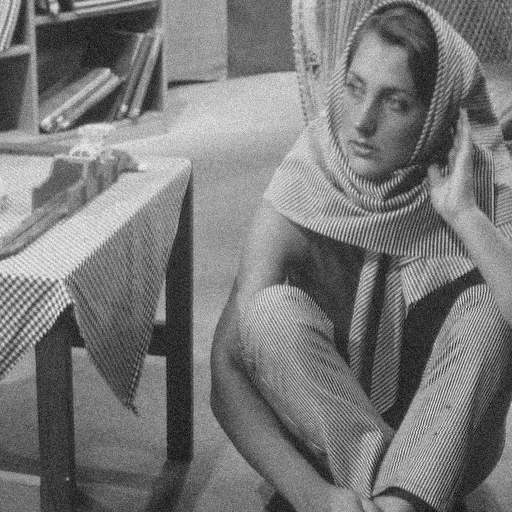
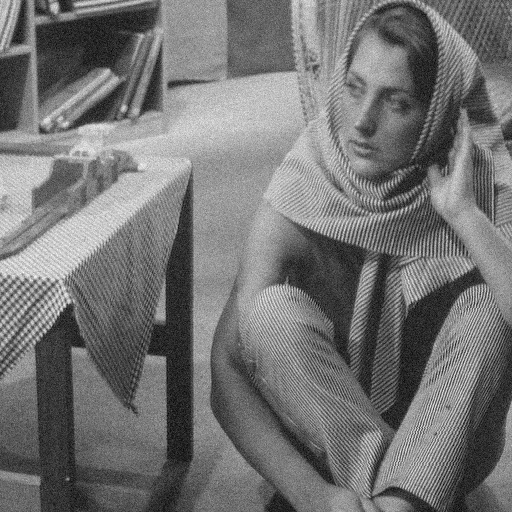
Changed window

diff --git a/assignment2_Filtering/2/code/myBilateralFiltering.m b/assignment2_Filtering/2/code/myBilateralFiltering.m
@@ -3,24 +3,34 @@ function Bf_Img = myBilateralFiltering(Img,sigma_s,sigma_i)
 sz = size(Img);
 Bf_Img = zeros(sz);
 
-% h = waitbar(0,'Applying bilateral filter...');
+h = waitbar(0,'Applying bilateral filter...');
 % Mask for spatial Gaussian
 [X, Y] = meshgrid(-sz(1)/2:sz(1)/2,-sz(2)/2:sz(2)/2);
 Dist = X.^2 + Y.^2;
-G_spatial = exp(-Dist/(2*sigma_s^2));
+G_spatial = exp(-Dist/(2*sigma_s^2));  % Spatial gaussian mask
 
 % Apply bilateral filter.
 for i = 1:sz(1)
    for j = 1:sz(2)
-       w = min([i-1, j-1, sz(1)-i, sz(2)-j, 12]);  % Find the window size
-       window = Img(i-w:i+w, j-w:j+w);  % Extract the window from the original image
+       % Find the window size
+       w_up = min([12, i-1]);
+       w_down = min([12, sz(1)-i]);
+       w_left = min([12, j-1]);
+       w_right = min([12, sz(2)-j]);
+       
+       % Extract the window from the original image
+       window = Img(i-w_up:i+w_down, j-w_left:j+w_right);
+       
        diff_i = window - Img(i, j);   % Difference of intensity from Img(i, j)
        mask_i = exp(-(diff_i.^2) / (2 * sigma_i^2));  % Gaussian intensity mask
-       mask_s = G_spatial(1+sz(1)/2-w:1+sz(1)/2+w, 1+sz(2)/2-w:1+sz(2)/2+w);  % Extract the spatial mask
+       
+       % Extract the spatial mask
+       mask_s = G_spatial(1+sz(1)/2-w_up:1+sz(1)/2+w_down, 1+sz(2)/2-w_left:1+sz(2)/2+w_right);
+       
        den = mask_s.*mask_i;  % Compute the denominator
        num = den.*window;  % Compute the numerator
        Bf_Img(i, j) = sum(num(:))/sum(den(:));  % Value at output pixel
    end
-  % waitbar(i/sz(1));
+  waitbar(i/sz(1));  % Update the waitbar
 end
-% close(h);
+close(h);  % Close the waitbar

diff --git a/assignment2_Filtering/2/code/myRescaleIntensities.m b/assignment2_Filtering/2/code/myRescaleIntensities.m
@@ -1,7 +1,8 @@
 function [ imageRes ] = myRescaleIntensities(image, minI, maxI)
+%Function for linear contrast stretching
 %Rescales the intensities of input image to range [minI, maxI]
-minInp = min(image(:));
-Rinp = max(image(:)) - minInp;
-Rout = maxI - minI;
+minInp = min(image(:));  % Minimum intensity in input
+Rinp = max(image(:)) - minInp;  % Range of intensities in input
+Rout = maxI - minI;  % Range of intensitied in output
 imageRes = minI + ((image - minInp) * (Rout / Rinp));
 end
